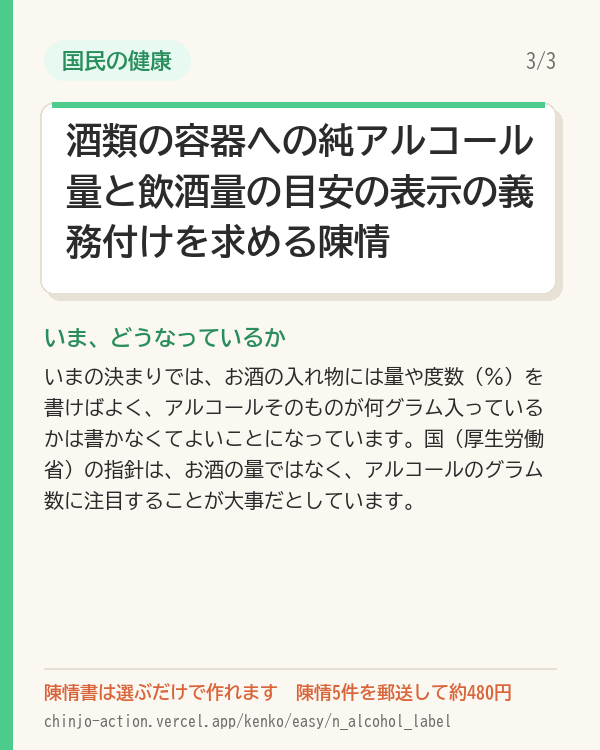
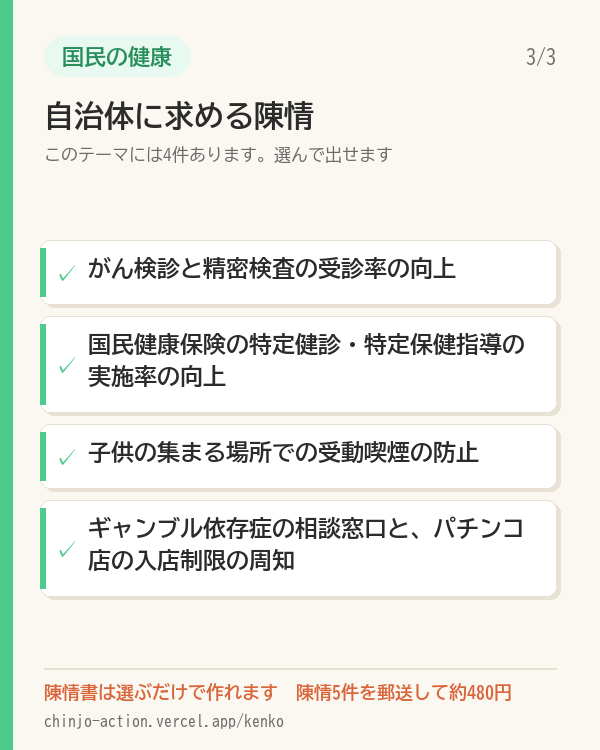
サイト紹介用の画像を、1枚に同じテーマの陳情を何件も並べる形にする（1・2枚目は国、3枚目は自治体に求める陳情）

diff --git a/scripts/make-promo-cards.py b/scripts/make-promo-cards.py
@@ -1,7 +1,7 @@
 # サイト紹介用の画像（X などに投稿する。600×750 の 4:5。サイトには置かない）を、テーマごとに3枚ずつ作る。
 #   python scripts/make-promo-cards.py  → docs/見本/紹介画像/<テーマ>-<番号>.png
-# 各テーマの国あての陳情の最初の3件について、件名と「いま」の説明（easy.js。一次資料で確かめた文）を載せる。
-# 文や項目を直したら作り直す。
+# 1枚に同じテーマの陳情を何件も並べる。1・2枚目は国に求める陳情（最初の12件を半分ずつ）、3枚目は自治体に求める陳情。
+# 項目を直したら作り直す。
 import json
 import re
 import subprocess
@@ -26,8 +26,14 @@ JS = r'''
 const vm = require('vm'), fs = require('fs'), path = require('path');
 const dir = process.argv[1];
 const window = {};
-for (const f of ['asks-national.js', 'easy.js']) vm.runInNewContext(fs.readFileSync(path.join(dir, f), 'utf8'), { window });
-process.stdout.write(JSON.stringify(window.ASKS.filter((a) => window.EASY[a.id]).map((a) => ({ id: a.id, label: a.label, ...window.EASY[a.id] }))));
+const out = {};
+for (const f of ['asks-national.js', 'asks-local.js']) {
+  if (!fs.existsSync(path.join(dir, f))) continue;
+  window.ASKS = [];
+  vm.runInNewContext(fs.readFileSync(path.join(dir, f), 'utf8'), { window });
+  out[f] = window.ASKS.map((a) => a.label);
+}
+process.stdout.write(JSON.stringify(out));
 '''
 
 
@@ -71,61 +77,61 @@ def sentences(text, d, font, width, max_lines):
     return wrap(d, ''.join(take), font, width)
 
 
-def card(key, theme, hue, n, total, a):
+def card(key, theme, hue, n, heading, count, labels):
     im = Image.new('RGB', (W, H), BG)
     d = ImageDraw.Draw(im)
     main, dark, soft = hsl(hue, 0.55, 0.55), hsl(hue, 0.55, 0.36), hsl(hue, 0.6, 0.94)
     d.rectangle((0, 0, 12, H), fill=main)
-    # テーマの札と通し番号
     tf = f(22)
     tw = d.textlength(theme, font=tf)
-    d.rounded_rectangle((44, 40, 44 + tw + 36, 80), 20, fill=soft)
-    d.text((62, 60), theme, font=tf, fill=dark, anchor='lm')
-    d.text((W - 44, 60), f'{n}/{total}', font=f(20, False), fill=SUB, anchor='rm')
-    # 小さな陳情書に見立てた白い紙に、件名を大きく
-    d.rounded_rectangle((46, 108, W - 38, 300), 14, fill=(232, 226, 214))
-    d.rounded_rectangle((40, 102, W - 44, 294), 14, fill=PAPER, outline=LINE, width=2)
-    d.rectangle((52, 102, W - 56, 107), fill=main)
-    label = re.sub(r'（[^）]*）', '', a['label'])
-    title = label + ('することを求める陳情' if label.endswith('に') else 'を求める陳情')
-    for size in (36, 33, 30, 27, 24):
-        lines = wrap(d, title, f(size), W - 132)
-        if len(lines) <= 3 and len(lines[-1]) > 2:  # 最後の行が「情」だけのようにならない大きさにする
-            break
-    ty = 198 - len(lines) * size * 0.7
-    for k, t in enumerate(lines):
-        d.text((66, ty + k * size * 1.4), t, font=f(size), fill=INK)
-    # いま、どうなっているか（easy.js の now）と、なぜ必要か（why）。入るところまで文の切れ目で取る
-    bf, y = f(20, False), 326
-    left = 9
-    for head, key2 in (('いま、どうなっているか', 'now'), ('なぜ必要か', 'why')):
-        if left < 2:
-            break
-        lines = sentences(a[key2], d, bf, W - 88, left)
-        if key2 == 'why' and lines[-1].endswith('…'):
-            break  # 文の途中で切れるなら「なぜ」は載せない（切った文は意味が変わりうる）
-        d.text((44, y), head, font=f(22), fill=dark)
-        y += 40
-        for t in lines:
-            d.text((44, y), t, font=bf, fill=INK)
-            y += 31
-        y += 16
-        left -= len(lines) + 2
-    # 下：費用と行き先
+    d.rounded_rectangle((44, 36, 44 + tw + 36, 76), 20, fill=soft)
+    d.text((62, 56), theme, font=tf, fill=dark, anchor='lm')
+    d.text((W - 44, 56), f'{n}/3', font=f(20, False), fill=SUB, anchor='rm')
+    d.text((44, 100), heading, font=f(30), fill=INK)
+    d.text((44, 146), f'このテーマには{count}件あります。選んで出せます', font=f(17, False), fill=SUB)
+    # 小さな陳情書に見立てた紙を、件名ごとに1枚ずつ重ねて並べる
+    top, bottom, gap = 184, 652, 12
+    # 件数が少ない画像は、紙と字を大きくして余白を埋める
+    fs, pad = (26, 40) if len(labels) <= 3 else (23, 32) if len(labels) <= 4 else (19, 24)
+    lh = round(fs * 1.37)
+    lf = f(fs)
+    items = []
+    for t in labels:
+        t = re.sub(r'（[^）]*）', '', t)
+        lines = wrap(d, t, lf, W - 150)
+        if len(lines) > 2:
+            lines = [lines[0], lines[1][:-1] + '…']
+        items.append(lines)
+    hs = [pad + lh * len(x) for x in items]
+    y = top + max(0, (bottom - top - sum(hs) - gap * (len(hs) - 1)) // 2)
+    for lines, h in zip(items, hs):
+        d.rounded_rectangle((44, y + 3, W - 40, y + h + 3), 10, fill=(232, 226, 214))
+        d.rounded_rectangle((40, y, W - 44, y + h), 10, fill=PAPER, outline=LINE, width=1)
+        d.rectangle((40, y + 8, 45, y + h - 8), fill=main)
+        d.text((66, y + h // 2), '✓', font=f(fs + 1), fill=main, anchor='mm')
+        for k, t in enumerate(lines):
+            d.text((88, y + pad // 2 + k * lh), t, font=lf, fill=INK)
+        y += h + gap
     d.line((44, 668, W - 44, 668), fill=LINE, width=2)
     d.text((44, 692), '陳情書は選ぶだけで作れます　陳情5件を郵送して約480円', font=f(18), fill=ACC, anchor='lm')
-    d.text((44, 720), f'{SITE}/{key}/easy/{a["id"]}', font=f(16, False), fill=SUB, anchor='lm')
+    d.text((44, 720), f'{SITE}/{key}', font=f(16, False), fill=SUB, anchor='lm')
     return im
 
 
 def main():
     OUT.mkdir(parents=True, exist_ok=True)
     for key, theme, hue in THEMES:
-        asks = load(key)[:PER]
-        for n, a in enumerate(asks, 1):
+        data = load(key)
+        nat, loc = data.get('asks-national.js', []), data.get('asks-local.js', [])
+        first = nat[:12]
+        half = (len(first) + 1) // 2
+        pages = [('国に求める陳情', len(nat), first[:half]),
+                 ('国に求める陳情（つづき）', len(nat), first[half:]),
+                 ('自治体に求める陳情', len(loc), loc[:6])]
+        for n, (heading, count, labels) in enumerate(pages, 1):
             p = OUT / f'{key}-{n}.png'
-            card(key, theme, hue, n, len(asks), a).save(p, optimize=True)
-            print(p.name, a['label'])
+            card(key, theme, hue, n, heading, count, labels).save(p, optimize=True)
+            print(p.name, len(labels))
 
 
 if __name__ == '__main__':
